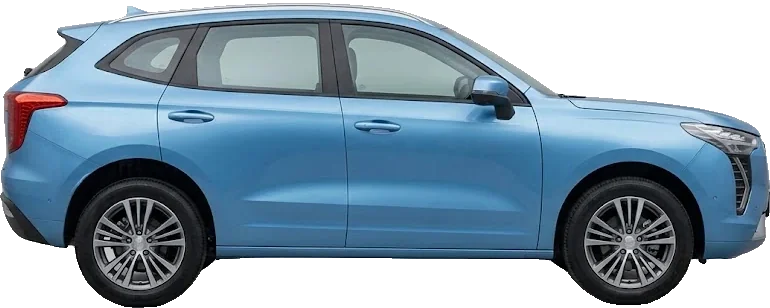
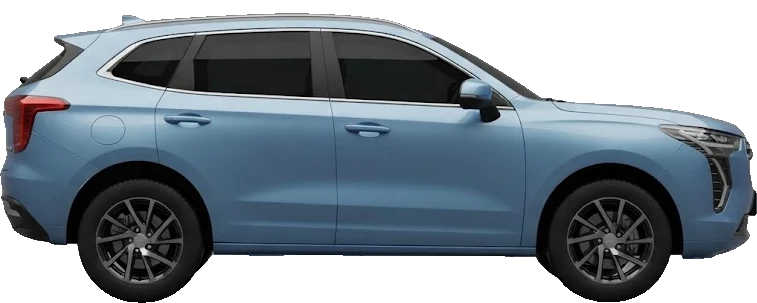
Cars: 10 re-shot photos (Passat B5, LuAZ, Priora, ZAZ-966, GAZ-21, Hummer H2, Range Rover L322, Jolion, Atto 3, C63 S)
The 7 former green-key cars among them lose their green base, FACTORY_PAINT and green meta; paint masks
rebuilt, paint off for Priora / C63 S / Jolion (glass gets painted). Thumbs rebuilt; green test now expects 25
key cars and runs its green.py fixture under mitsubishi-pajero-ii.

Claude-Session: https://claude.ai/code/session_01YH73bmVKmcSwFykVt1gPrj

diff --git a/test/green.test.js b/test/green.test.js
@@ -25,7 +25,7 @@ const sha = (f) => crypto.createHash('sha1').update(fs.readFileSync(f)).digest('
 
 test('green: factory colours for every new car, valid and only for NEW_RAW cars', () => {
   const ids = Object.keys(S.FACTORY_PAINT);
-  assert.equal(ids.length, 32); // 27 cars of prompts 151–177 + the five Italian B cars of 29.10 (178–182)
+  assert.equal(ids.length, 25); // 27 cars of prompts 151–177 + the five Italian B cars of 29.10 (178–182), minus 7 re-shot as plain photos (02.11)
   assert.match(S.KEY_GREEN, /^#[0-9a-f]{6}$/);
   for (const id of ids) {
     const f = S.FACTORY_PAINT[id];
@@ -77,29 +77,31 @@ test('green: every green base in public/cars has its baked photo, mask and meta 
 
 const PY = ['python3', 'python'].find((p) => spawnSync(p, ['-c', 'import numpy, scipy, PIL'], { stdio: 'ignore' }).status === 0);
 test('green: green.py builds a matching mask and bakes the factory colour, idempotently', { skip: !PY && 'needs python with numpy/scipy/pillow' }, () => {
+  // the fixture is the old green Volga photo; it runs under a car that is still a key car (two-tone, like the Volga)
+  const ID = 'mitsubishi-pajero-ii';
   const tmp = fs.mkdtempSync(path.join(os.tmpdir(), 'green-'));
   try {
     for (const d of ['public/cars', 'public/paint']) fs.mkdirSync(path.join(tmp, d), { recursive: true });
     for (const f of ['shared.js', 'car-photos.js']) fs.copyFileSync(path.join(PUB, f), path.join(tmp, 'public', f));
     // as `npm run cars` / the cloud cutter leave it: the green photo in public/cars
-    fs.copyFileSync(FIXTURE, path.join(tmp, 'public/cars/haz-21-volha.webp'));
+    fs.copyFileSync(FIXTURE, path.join(tmp, 'public/cars/' + ID + '.webp'));
     const run = () => {
-      const r = spawnSync(PY, ['-I', path.join(ROOT, 'tools/paint/green.py'), '--root', tmp, 'haz-21-volha'], { encoding: 'utf8' });
+      const r = spawnSync(PY, ['-I', path.join(ROOT, 'tools/paint/green.py'), '--root', tmp, ID], { encoding: 'utf8' });
       assert.equal(r.status, 0, r.stderr);
-      assert.match(r.stdout, /haz-21-volha: ok/);
+      assert.match(r.stdout, new RegExp(`${ID}: ok`));
     };
     run();
-    const base = path.join(tmp, 'public/cars/base/haz-21-volha.webp'), baked = path.join(tmp, 'public/cars/haz-21-volha.webp');
-    const mask = path.join(tmp, 'public/paint/haz-21-volha.png');
+    const base = path.join(tmp, 'public/cars/base/' + ID + '.webp'), baked = path.join(tmp, 'public/cars/' + ID + '.webp');
+    const mask = path.join(tmp, 'public/paint/' + ID + '.png');
     assert.equal(sha(base), sha(FIXTURE), 'the green original is kept as the base');
     const size = webpSize(fs.readFileSync(FIXTURE));
     assert.deepEqual(webpSize(fs.readFileSync(baked)), size);
     assert.deepEqual(pngSize(fs.readFileSync(mask)), size);
-    const m = JSON.parse(fs.readFileSync(path.join(tmp, 'public/paint/meta.json'), 'utf8')).cars['haz-21-volha'];
+    const m = JSON.parse(fs.readFileSync(path.join(tmp, 'public/paint/meta.json'), 'utf8')).cars[ID];
     assert.deepEqual([m.w, m.h], size);
     assert.equal(m.base, sha(base));
     assert.equal(m.baked, sha(baked));
-    assert.equal(m.factory.hex, S.FACTORY_PAINT['haz-21-volha'].hex);
+    assert.equal(m.factory.hex, S.FACTORY_PAINT[ID].hex);
     assert.equal(m.wheels.length, 2);
     assert.ok(m.p[0] < m.p[1] && m.p[1] < m.p[2]);
     assert.notEqual(sha(baked), sha(base), 'the photo is baked, not the green original');

diff --git a/public/shared.js b/public/shared.js
@@ -3060,17 +3060,10 @@ export const PAINT_FINISH = { gloss: 'глянець', metallic: 'металік
 // Colour names are those of docs/car-prompts.txt; hexes are sRGB approximations of the factory paints.
 export const KEY_GREEN = '#3fae49';
 export const FACTORY_PAINT = {
-  'volkswagen-passat-b5': { hex: '#1f2a4d', finish: 'metallic', name: 'Indigo blue metallic', key: true },
-  'luaz-969m-volyn': { hex: '#e2621c', finish: 'gloss', name: 'bright orange (khaki canvas top)', key: true },
   'vaz-2114': { hex: '#b6babe', finish: 'metallic', name: 'silver «Snow Queen» metallic', key: true },
-  'lada-priora': { hex: '#121315', finish: 'gloss', name: 'gloss black', key: true },
-  'zaz-966-vukhatyi': { hex: '#e6d9a2', finish: 'gloss', name: 'light cream yellow', key: true },
   'mitsubishi-pajero-ii': { hex: '#1f3b2c', finish: 'metallic', name: 'dark green metallic over silver', key: true,
     two: { hex: '#a9adb1', finish: 'metallic', side: 'below', at: 0.64 } },
-  'haz-21-volha': { hex: '#8cc5bd', finish: 'gloss', name: 'pale turquoise with an ivory roof', key: true,
-    two: { hex: '#ebe2c8', finish: 'gloss', side: 'above', at: 0.36 } },
   'audi-100-c3-syhara': { hex: '#b9141c', finish: 'gloss', name: 'Tornado red', key: true },
-  'hummer-h2': { hex: '#f2c00f', finish: 'gloss', name: 'bright yellow', key: true },
   'toyota-land-cruiser-200': { hex: '#eceee9', finish: 'metallic', name: 'pearl white', key: true },
   'toyota-camry-3-5-xv40': { hex: '#121315', finish: 'gloss', name: 'gloss black', key: true },
   'mercedes-benz-e55-amg-w210': { hex: '#262c4f', finish: 'metallic', name: 'Tanzanite blue metallic', key: true },
@@ -3078,7 +3071,6 @@ export const FACTORY_PAINT = {
   'mercedes-benz-s600-w140-kaban': { hex: '#141519', finish: 'metallic', name: 'Obsidian black metallic', key: true },
   'mercedes-benz-e500-w124-vovchok': { hex: '#b3b7bb', finish: 'metallic', name: 'Brilliant silver metallic', key: true },
   'bmw-m5-e34': { hex: '#0f1012', finish: 'gloss', name: 'Jet black', key: true },
-  'range-rover-supercharged-l322': { hex: '#efefeb', finish: 'gloss', name: 'Fuji white', key: true },
   'dodge-charger-r-t-1970': { hex: '#121315', finish: 'gloss', name: 'gloss black', key: true },
   'nissan-skyline-gt-r-r32': { hex: '#5a5e62', finish: 'metallic', name: 'Gun Grey metallic', key: true },
   'bmw-m5-e39': { hex: '#24477e', finish: 'metallic', name: 'Avus blue metallic', key: true },
